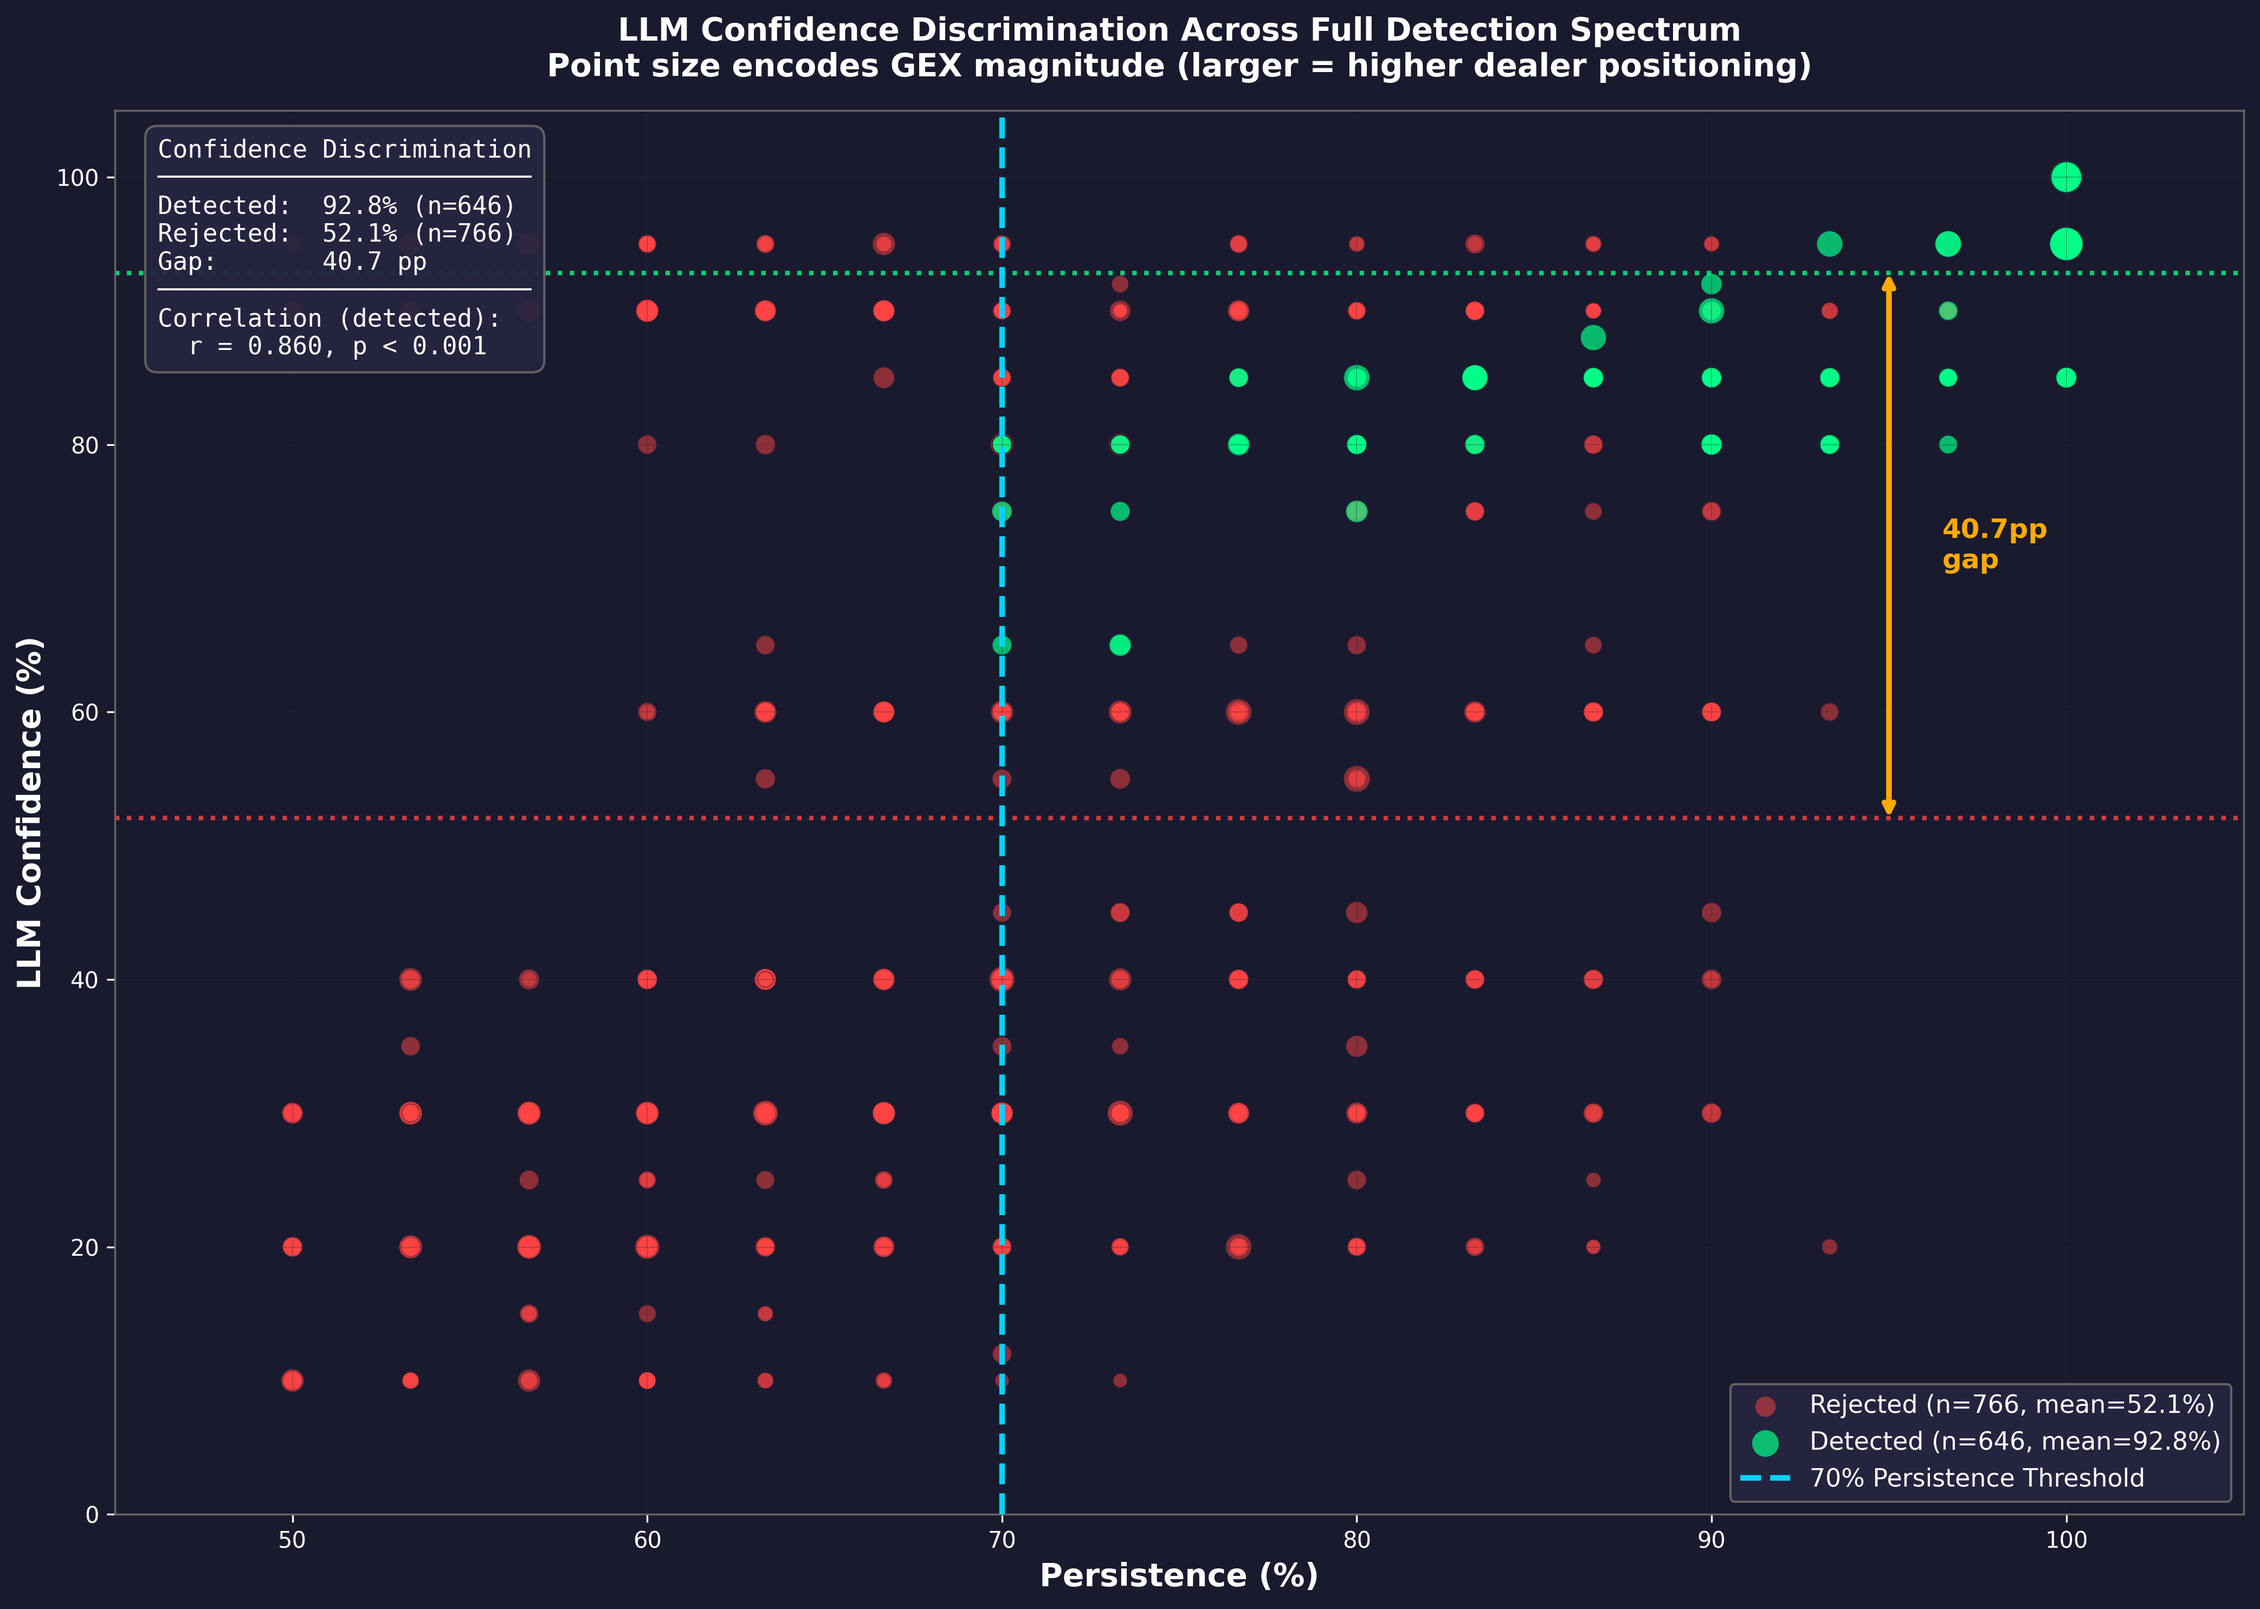
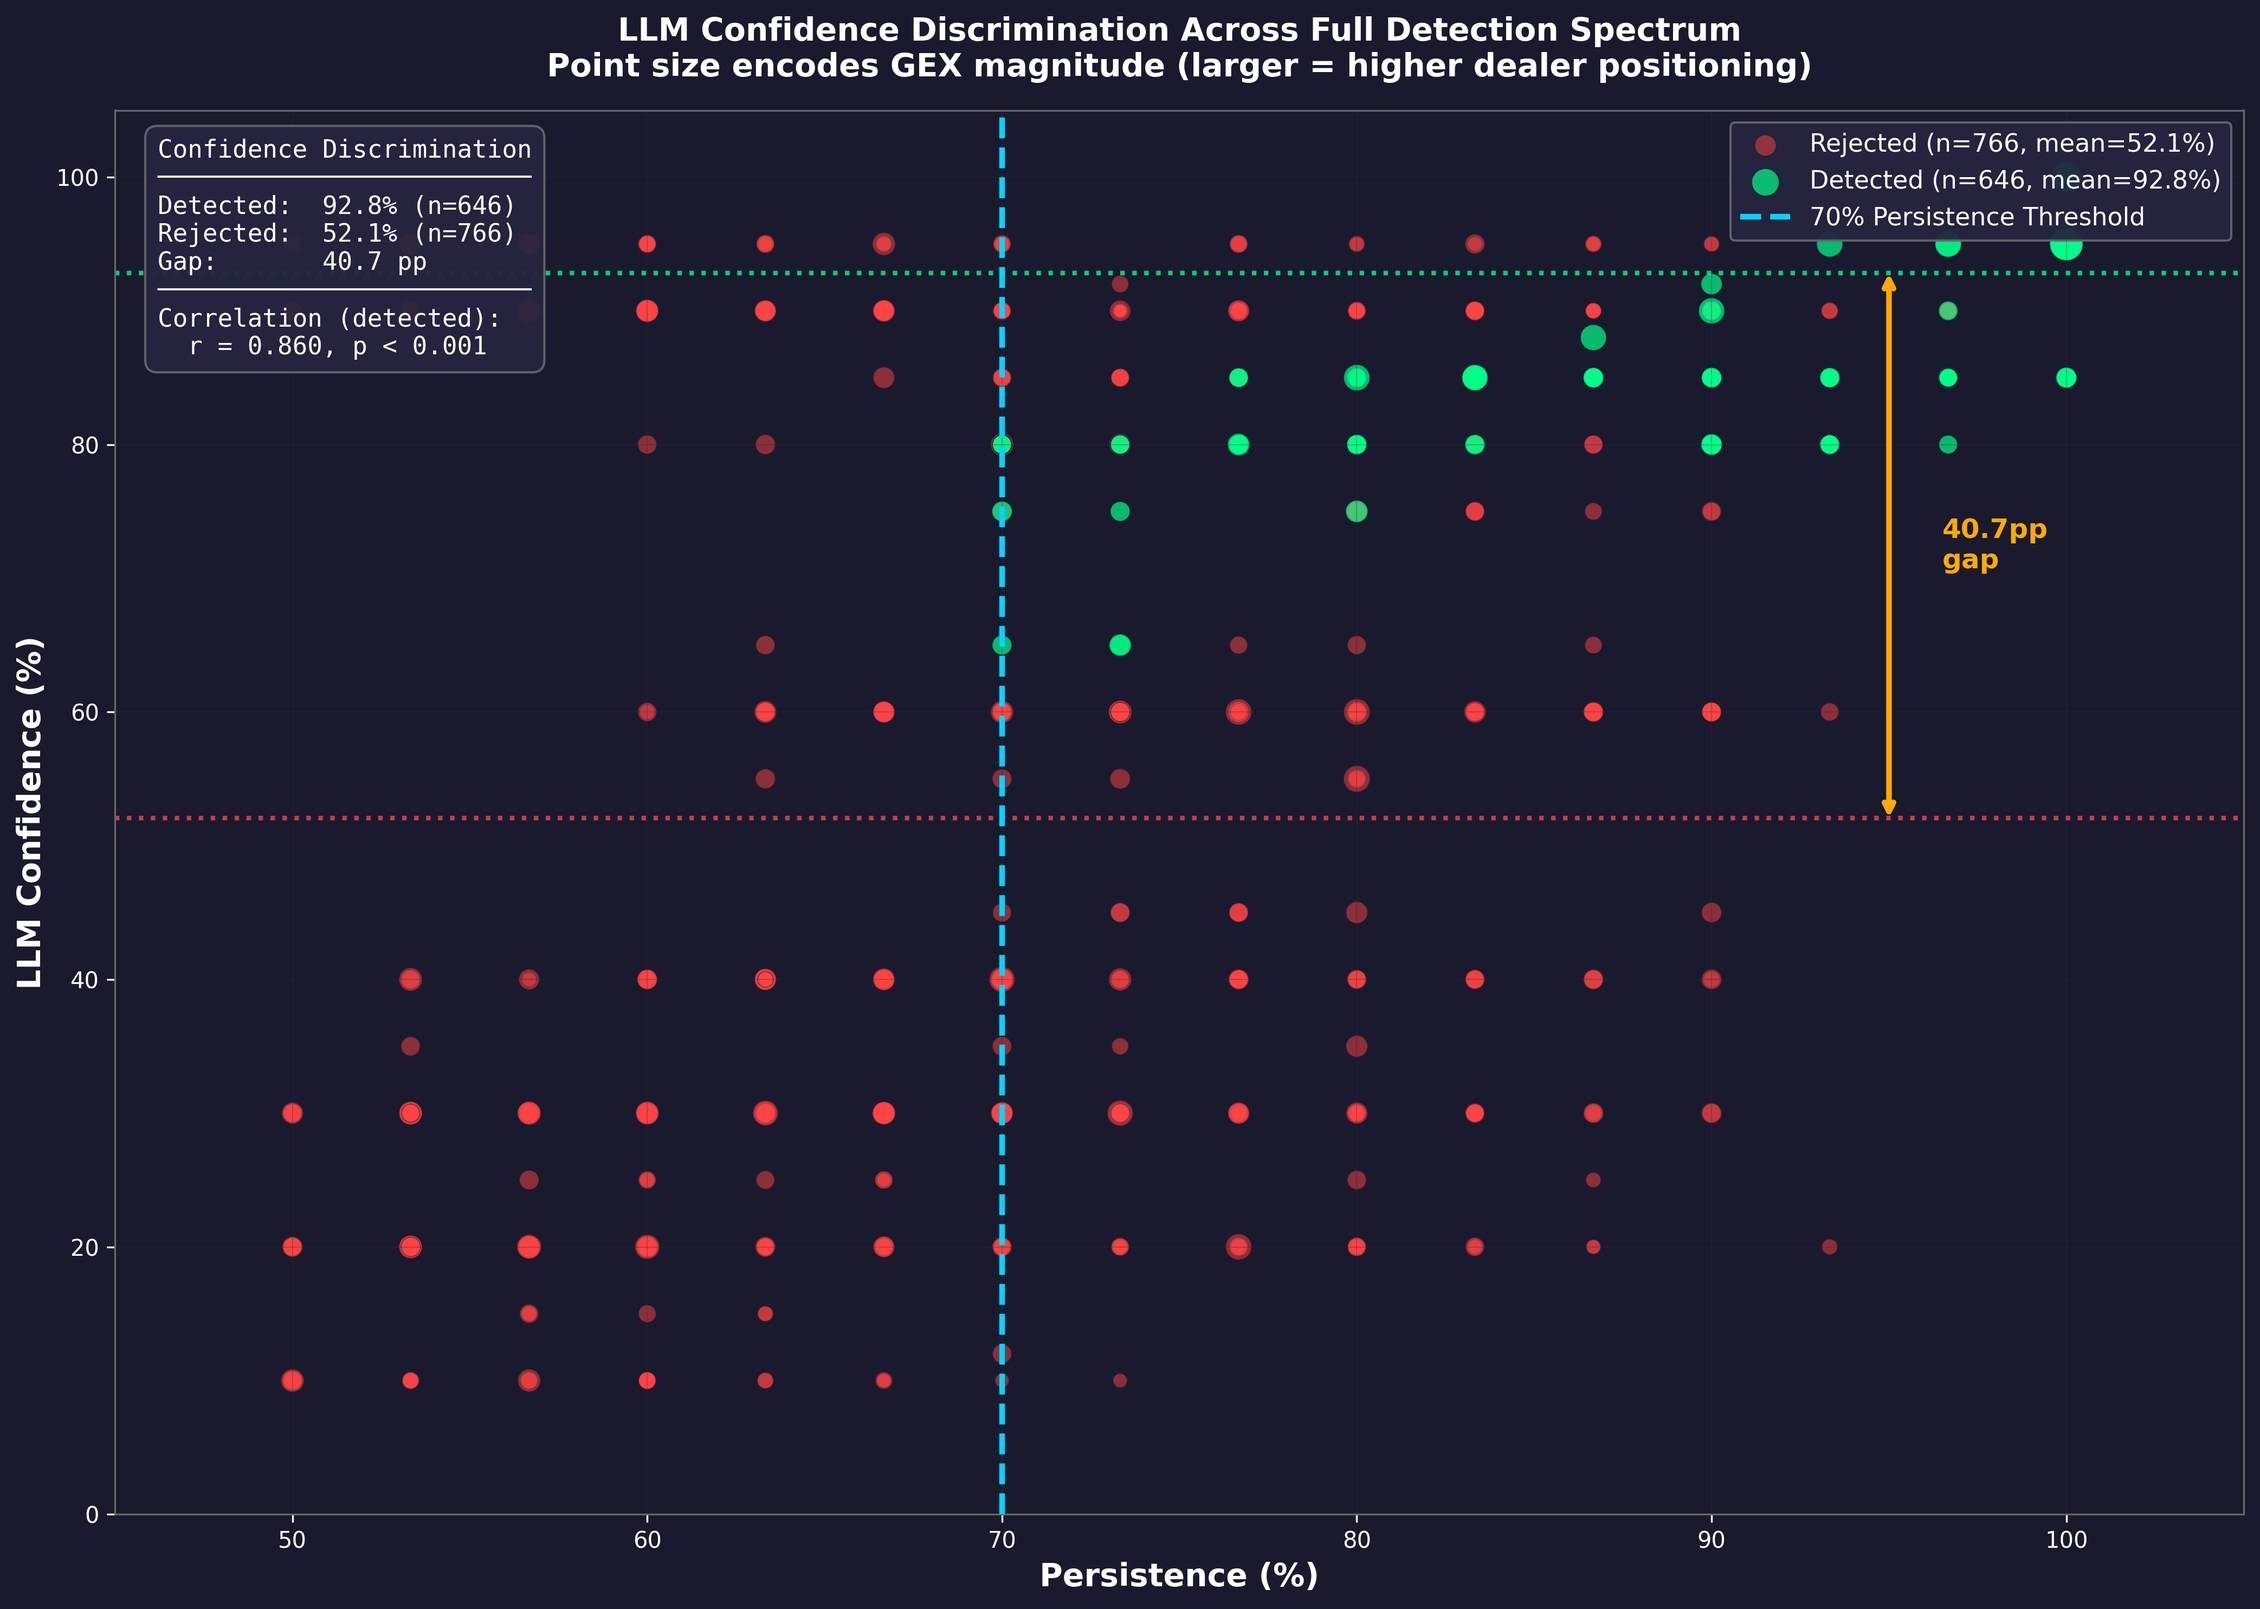
style(paper2): Fix figure font sizes and legend placements
Font size improvements (minimum 10pt for readability):
- fig05: stats box 9→11, ticks 9→10, labels 10→11
- fig08: footer 9→10
- fig10: legends 9→11
- fig11: rate annotations 8→10

Legend placement fixes (avoid data overlap):
- fig06: upper right → upper left (avoid mean annotations)
- fig07: lower right → upper right (avoid low-confidence points)
- fig10 panel B: lower right → upper right

All 6 affected figures regenerated at 300 DPI.

Changed region(s): [[0.7794, 0.062, 0.9976, 0.1549], [0.7794, 0.8673, 0.9976, 0.9293]]

diff --git a/scripts/figures/fig10_borderline_persistence.py b/scripts/figures/fig10_borderline_persistence.py
@@ -128,7 +128,7 @@ def create_borderline_figure(data, output_path):
     ax1.set_ylabel('Count', fontsize=11, fontweight='bold', color=DARK_THEME['text'])
     ax1.set_title('A: Confidence Distribution\n(Borderline 68-72% Persistence)',
                   fontsize=12, fontweight='bold', color=DARK_THEME['text'])
-    legend1 = ax1.legend(loc='upper left', fontsize=9, facecolor=DARK_THEME['background'],
+    legend1 = ax1.legend(loc='upper left', fontsize=11, facecolor=DARK_THEME['background'],
                          edgecolor=DARK_THEME['dim'])
     for text in legend1.get_texts():
         text.set_color(DARK_THEME['text'])
@@ -168,7 +168,7 @@ def create_borderline_figure(data, output_path):
     ax2.set_ylabel('LLM Confidence (%)', fontsize=11, fontweight='bold', color=DARK_THEME['text'])
     ax2.set_title('B: Threshold Crossing Detail\n(65-75% Persistence Range)',
                   fontsize=12, fontweight='bold', color=DARK_THEME['text'])
-    legend2 = ax2.legend(loc='lower right', fontsize=9, facecolor=DARK_THEME['background'],
+    legend2 = ax2.legend(loc='upper right', fontsize=11, facecolor=DARK_THEME['background'],
                          edgecolor=DARK_THEME['dim'])
     for text in legend2.get_texts():
         text.set_color(DARK_THEME['text'])

diff --git a/scripts/figures/fig05_selectivity_demo.py b/scripts/figures/fig05_selectivity_demo.py
@@ -183,7 +183,7 @@ def create_figure(windows, output_path):
         )
 
         # Position stats box
-        ax.text(0.98, 0.98, stats_text, transform=ax.transAxes, fontsize=9,
+        ax.text(0.98, 0.98, stats_text, transform=ax.transAxes, fontsize=11,
                 verticalalignment='top', horizontalalignment='right',
                 color=DARK_THEME['text'],
                 bbox=dict(boxstyle='round,pad=0.4', facecolor=DARK_THEME['panel_bg'],
@@ -193,12 +193,12 @@ def create_figure(windows, output_path):
         # Axis formatting
         ax.set_xlim(0, 31)
         ax.set_xticks([1, 10, 20, 30])
-        ax.tick_params(colors=DARK_THEME['text'], labelsize=9)
+        ax.tick_params(colors=DARK_THEME['text'], labelsize=10)
         ax.grid(axis='y', alpha=0.2, color=DARK_THEME['grid'], linestyle='-')
 
         # Labels
-        ax.set_xlabel('Day', fontsize=10, color=DARK_THEME['text'])
-        ax.set_ylabel('GEX ($B)', fontsize=10, color=DARK_THEME['text'])
+        ax.set_xlabel('Day', fontsize=11, color=DARK_THEME['text'])
+        ax.set_ylabel('GEX ($B)', fontsize=11, color=DARK_THEME['text'])
 
     # Main title
     fig.suptitle('Framework Selectivity Demonstration\n'

diff --git a/scripts/figures/fig06_gex_magnitude_distribution.py b/scripts/figures/fig06_gex_magnitude_distribution.py
@@ -148,9 +148,9 @@ def create_magnitude_histogram(data, output_path):
     ax.set_title('GEX Magnitude Distribution: Pre-0DTE (2020) vs Post-0DTE (2024)',
                  fontsize=14, fontweight='bold', pad=15, color=DARK_THEME['text'])
 
-    # Legend with dark background
-    legend = ax.legend(loc='upper right', fontsize=11, framealpha=0.9,
-                       bbox_to_anchor=(0.99, 0.72), facecolor=DARK_THEME['background'],
+    # Legend with dark background - placed at upper left to avoid annotation overlap
+    legend = ax.legend(loc='upper left', fontsize=11, framealpha=0.9,
+                       facecolor=DARK_THEME['background'],
                        edgecolor=DARK_THEME['dim'])
     for text in legend.get_texts():
         text.set_color(DARK_THEME['text'])

diff --git a/scripts/figures/fig07_confidence_discrimination.py b/scripts/figures/fig07_confidence_discrimination.py
@@ -160,8 +160,8 @@ def create_figure(data, output_path):
                  'Point size encodes GEX magnitude (larger = higher dealer positioning)',
                  fontsize=14, fontweight='bold', pad=15, color=DARK_THEME['text'])
 
-    # Legend
-    legend = ax.legend(loc='lower right', fontsize=11, facecolor=DARK_THEME['panel_bg'],
+    # Legend - placed at upper right to avoid data overlap in lower region
+    legend = ax.legend(loc='upper right', fontsize=11, facecolor=DARK_THEME['panel_bg'],
                        edgecolor=DARK_THEME['dim'], framealpha=0.95)
     for text in legend.get_texts():
         text.set_color(DARK_THEME['text'])

diff --git a/scripts/visualization/fig08_detection_progression.py b/scripts/visualization/fig08_detection_progression.py
@@ -196,7 +196,7 @@ def create_figure(results, output_path):
         "Growing but inconsistent rates in 2022-2023 (32.4%, 20.2%) show gradual 0DTE adoption. Perfect 100% detection in 2024-2025\n"
         "marks structural shift with sustained dealer gamma regimes. GEX magnitude grew 360% ($5B → $23B), far exceeding inflation (20-25%)."
     )
-    fig.text(0.5, 0.02, footer_text, ha='center', va='bottom', fontsize=9,
+    fig.text(0.5, 0.02, footer_text, ha='center', va='bottom', fontsize=10,
              style='italic', color=DARK_THEME['dim'], wrap=True)
 
     plt.tight_layout(rect=[0, 0.06, 1, 1])

diff --git a/scripts/figures/fig11_threshold_sensitivity_heatmap.py b/scripts/figures/fig11_threshold_sensitivity_heatmap.py
@@ -171,7 +171,7 @@ def create_heatmap(data, output_path):
 
             # Smaller annotation with rates
             ax.text(j, i + 0.32, f'({r2024:.0f}%-{r2020:.0f}%)',
-                    ha='center', va='center', fontsize=8,
+                    ha='center', va='center', fontsize=10,
                     color=text_color, alpha=0.8)
 
     # Highlight current parameters (70%, $5B)
